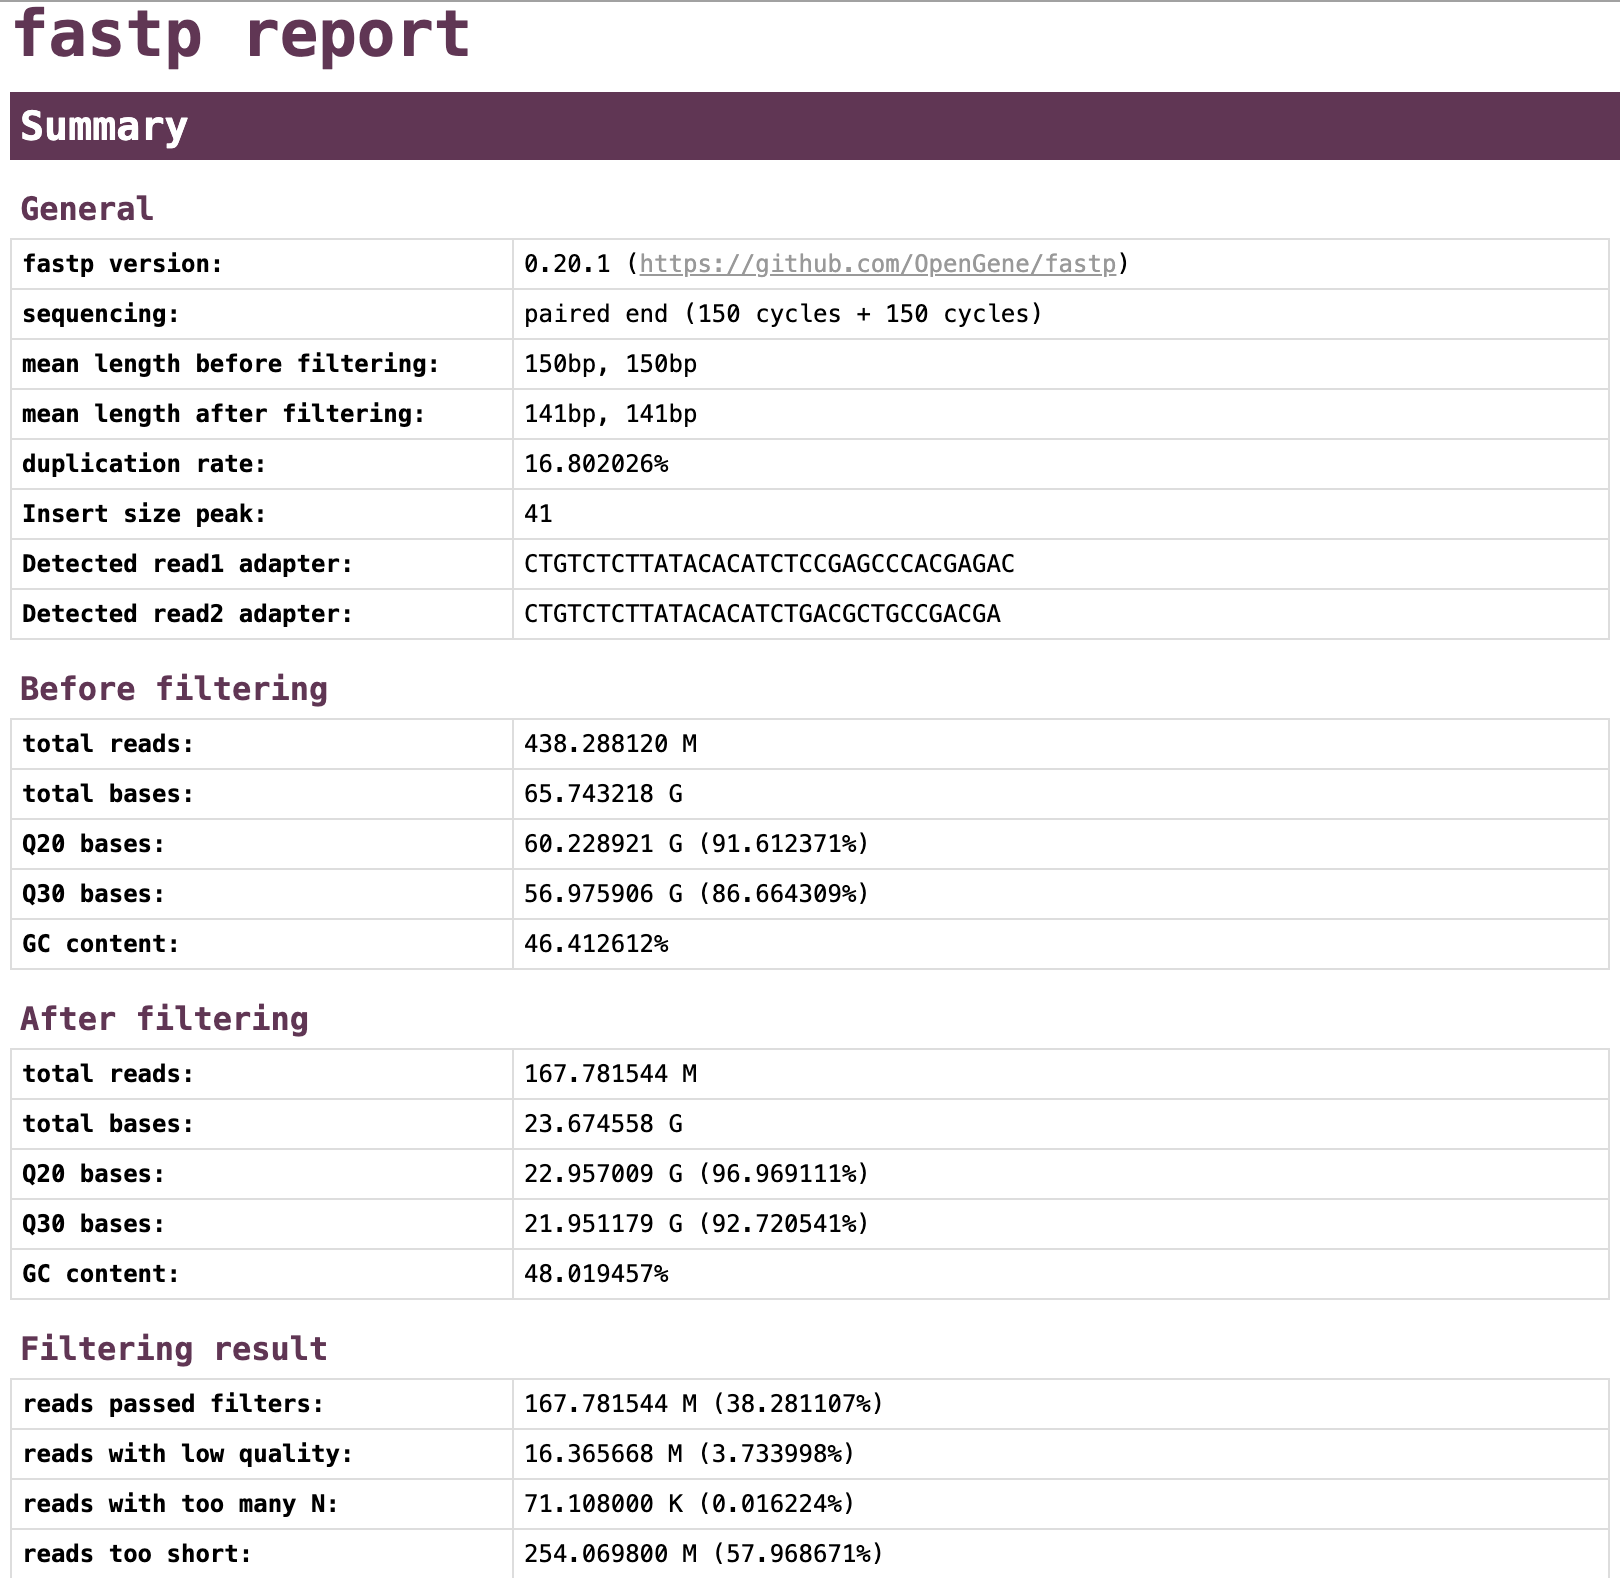
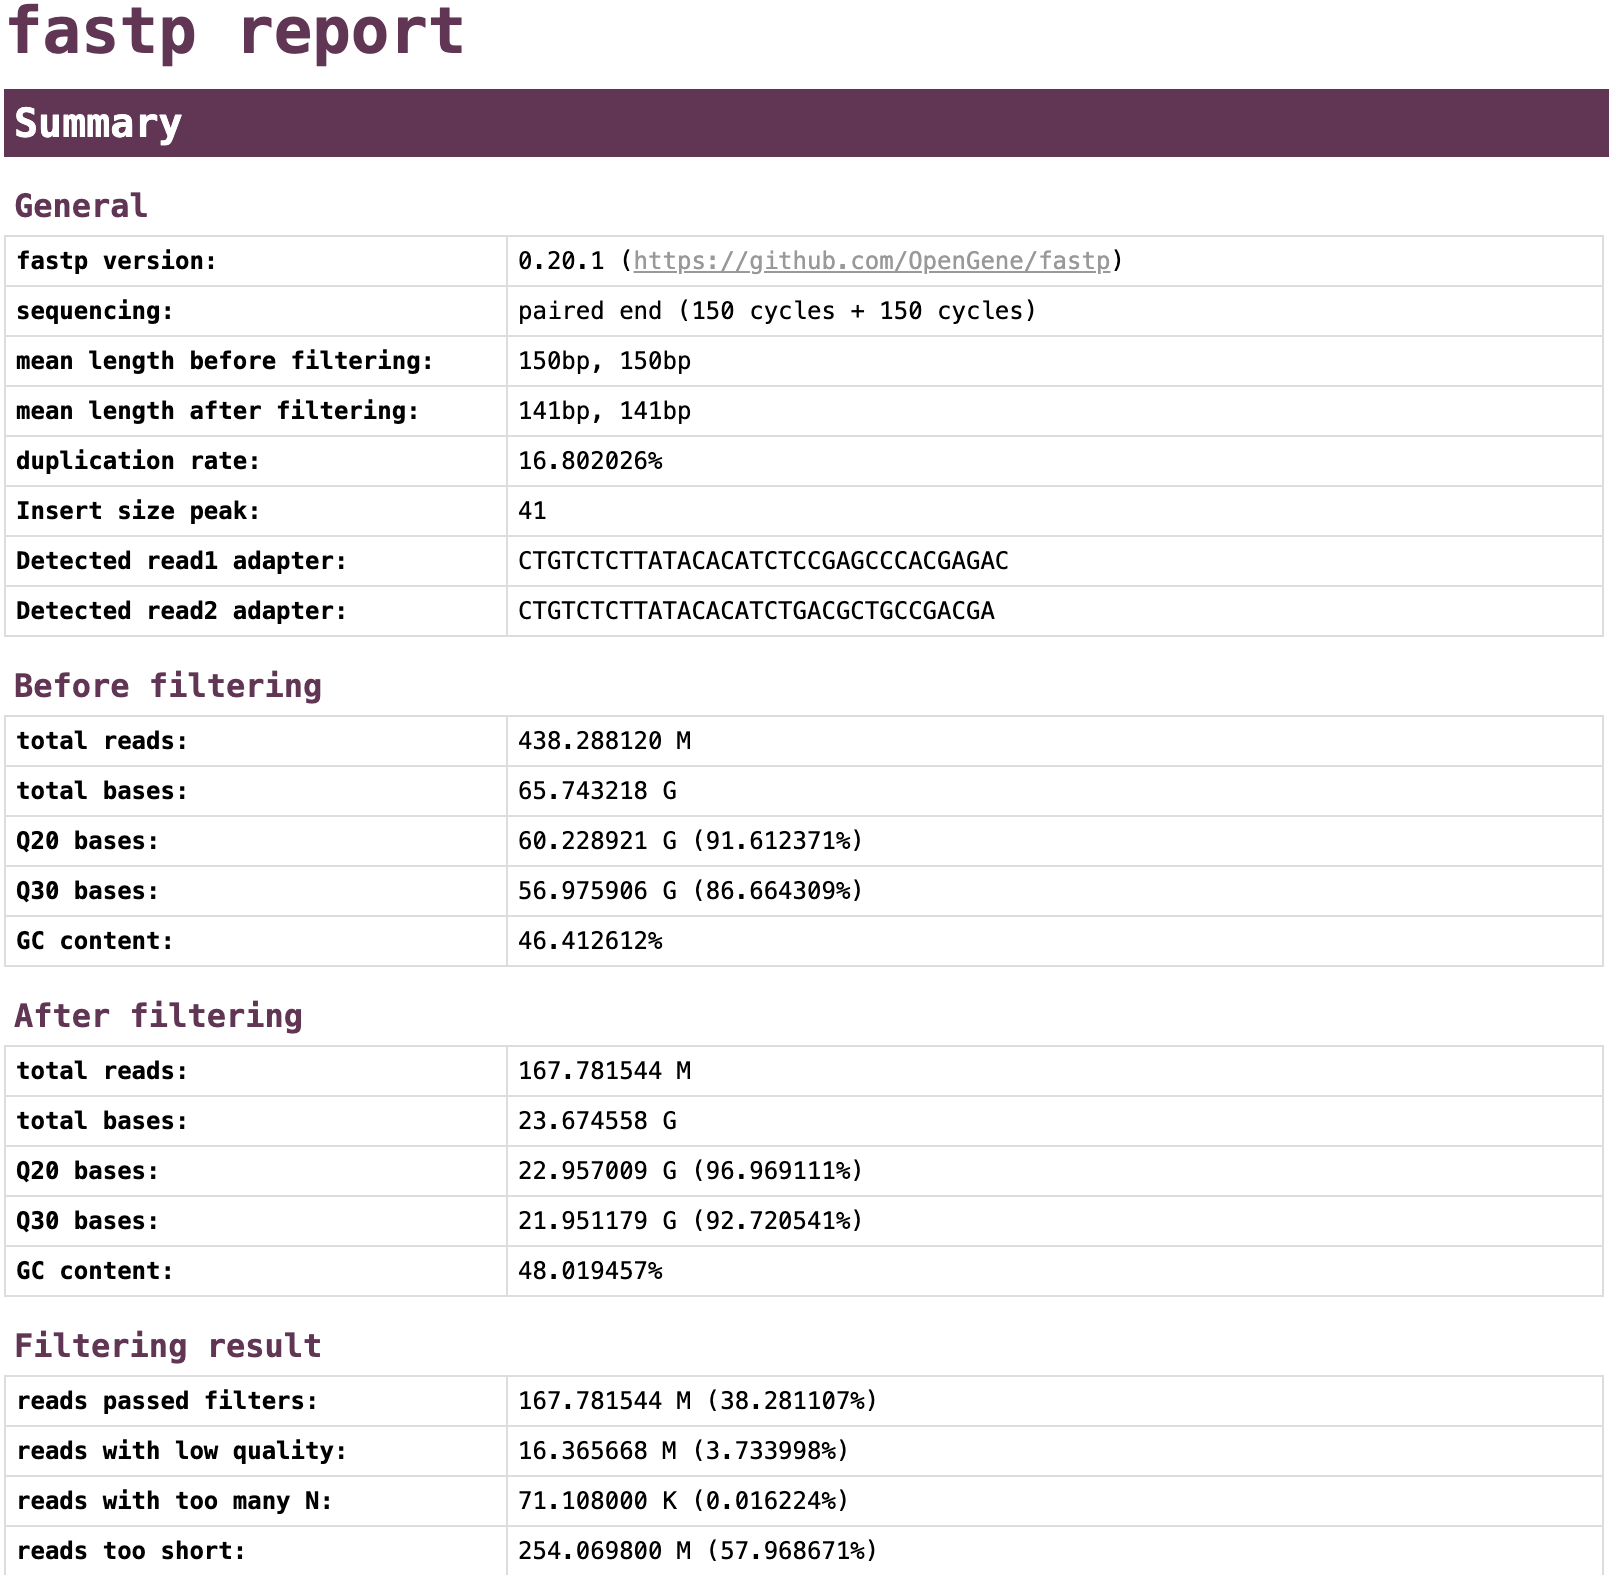
README update

diff --git a/README.md b/README.md
@@ -50,7 +50,7 @@ Adapters and low quality reads/bases can be trimmed using one of several program
 fastp -i <sample>_R1.fastq.gz -O <sample>_R1.trimmed.fastq.g -I <sample>_R2.fastq.gz -O <sample>_R2.trimmed.fastq.gz --detect_adapter_for_pe -l 50 -j <sample>.fastp.json -h <sample>.fastp.html
 ```
 
-<img src="https://github.com/CebolaLab/ATAC-seq/blob/master/Figures/fastp-html.png" width="500">
+<img src="https://github.com/CebolaLab/ATAC-seq/blob/master/Figures/fastp-html.png" width="600">
 
 The user should specify whether the raw data is encoded in phred+33 or phred+63 (read more [here](https://sequencing.qcfail.com/articles/incorrect-encoding-of-phred-scores/)). Most data should be encoded in the standardised phred+33. This can be confirmed using the fastQC report generated previously: the 'Encoding' field should read Sanger / Illumina 1.9 as below: 
 
